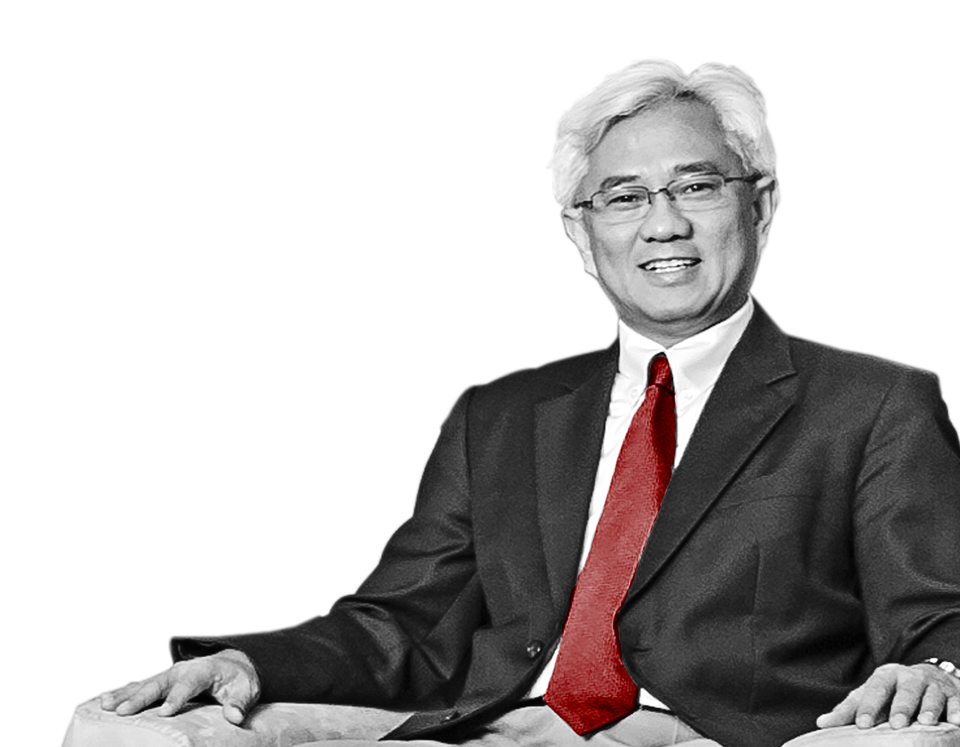
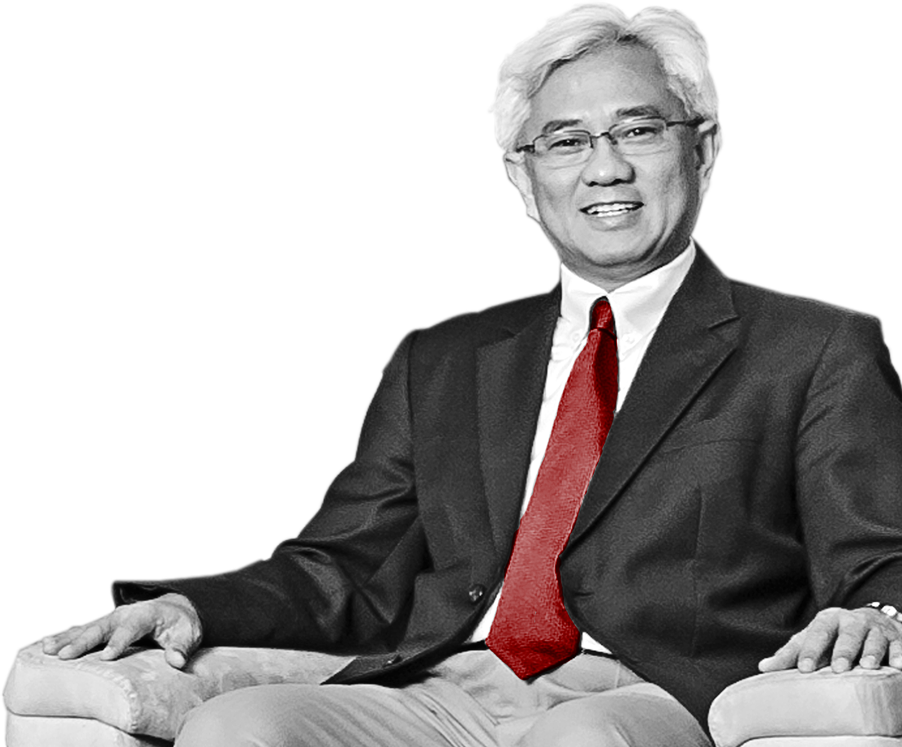
WIP: shaping the future, DONE: until CEO without resizing image

diff --git a/js/future.js b/js/future.js
@@ -1,3 +1,4 @@
+var GLOBAL_WIDTH_1= 960;
 var HEADER_HEIGHT = 90;
 var DIVIDER_WIDTH = 960.0;
 var DIVIDER_HEIGHT = 747.0;
@@ -15,9 +16,9 @@ var dividerTop;
 var dividerHeight;
 
 $(function(){
-	dividerHeight=resizeFixedImage("#dividerImg","#dividerDiv",DIVIDER_HEIGHT,DIVIDER_RATIO,-15);
-	resizeFixedImage("#chairmanStatementImg","#chairmanStatementBgDiv",CHAIRMAN_STATEMENT_HEIGHT,CHAIRMAN_STATEMENT_RATIO,0);
-	resizeFixedImage("#ceo1BgImg","#ceo1BgDiv",CHAIRMAN_STATEMENT_HEIGHT,CHAIRMAN_STATEMENT_RATIO,0);
+	dividerHeight=resizeFixedImage("#dividerDiv",DIVIDER_HEIGHT,-15);
+	resizeFixedImage("#chairmanStatementBgDiv",CHAIRMAN_STATEMENT_HEIGHT,0);
+	resizeFixedImage("#ceo1BgDiv",CHAIRMAN_STATEMENT_HEIGHT,0);
 	reposDivider();
 	reposChairmanImage();
 	reposCeo1Image();
@@ -26,9 +27,9 @@ $(function(){
 	translateCeo1Image();
 
 	$(window).resize(function(){
-		dividerHeight=resizeFixedImage("#dividerImg","#dividerDiv",DIVIDER_HEIGHT,DIVIDER_RATIO,-15);
-		resizeFixedImage("#chairmanStatementImg","#chairmanStatementBgDiv",CHAIRMAN_STATEMENT_HEIGHT,CHAIRMAN_STATEMENT_RATIO,0);
-		resizeFixedImage("#ceo1BgImg","#ceo1BgDiv",CHAIRMAN_STATEMENT_HEIGHT,CHAIRMAN_STATEMENT_RATIO,0);
+		dividerHeight=resizeFixedImage("#dividerDiv",DIVIDER_HEIGHT,-15);
+		resizeFixedImage("#chairmanStatementBgDiv",CHAIRMAN_STATEMENT_HEIGHT,0);
+		resizeFixedImage("#ceo1BgDiv",CHAIRMAN_STATEMENT_HEIGHT,0);
 		reposDivider();
 		reposChairmanImage();
 		reposCeo1Image();
@@ -45,16 +46,17 @@ $(function(){
 	});
 });
 
-function resizeFixedImage(imgSelector, divSelector, imgHeight, imgRatio, leftTolerant) {
+function resizeFixedImage(divSelector,imgHeight,leftTolerant) {
 	var height = parseInt($(window).height());
 	if (height<=imgHeight) {
 		height=imgHeight;
 	}
 
-	var dividerImgWidth = height * imgRatio;
-	var dividerImgLeft = (parseInt($(window).width())-dividerImgWidth) / 2;
+	// var dividerImgWidth = height * imgRatio;
+	// var dividerImgLeft = (parseInt($(window).width())-dividerImgWidth) / 2;
+	var dividerImgLeft = (parseInt($(window).width())-GLOBAL_WIDTH_1) / 2;
 
-	$(imgSelector).css('height',height+'px');
+	$(divSelector).css('height',height+'px');
 	$(divSelector).css('left',(dividerImgLeft+leftTolerant)+'px');
 
 	return height;

diff --git a/future.html b/future.html
@@ -53,16 +53,14 @@
 
 
       <section id="dividerSection">
-        <div id="dividerDiv" style="position:relative; z-index:-20;" class="center-content">
-          <img id="dividerImg" src="images/future/01-divider.png" />
+        <div id="dividerDiv" style="position:relative; width:960px; z-index:-20; background:#c40d42 url('images/future/01-divider.png') no-repeat center center;" class="center-content">
         </div>
       </section>
 
 
 
       <section id="chairmanStatementSection">
-        <div id="chairmanStatementBgDiv" style="position:fixed; left:0; z-index:-10;" class="center-content">
-          <img id="chairmanStatementImg" src="images/future/02-chairman_s-statement.png" />
+        <div id="chairmanStatementBgDiv" style="position:fixed; width:960px; left:0; z-index:-10; background:#ffffff url('images/future/02-chairman_s-statement.png') no-repeat left bottom;" class="center-content">
         </div>
         <div style="position:relative; max-width:890px; width:100%; margin:0px auto; z-index:0; margin-top:40px;" id="divider" class="center-content">
           <div style="position:relative; width:455px; left:435px;" class="center-content">
@@ -121,8 +119,7 @@
 
 
       <section id="ceo1Section">
-        <div id="ceo1BgDiv" style="position:fixed; left:0; z-index:-10;" class="center-content">
-          <img id="ceo1BgImg" src="images/future/03-ceo_1.png" />
+        <div id="ceo1BgDiv" style="position:fixed; width:960px; left:0; z-index:-10; background:#ffffff url('images/future/03-ceo_1.png') no-repeat right bottom;" class="center-content">
         </div>
       </section>
 
